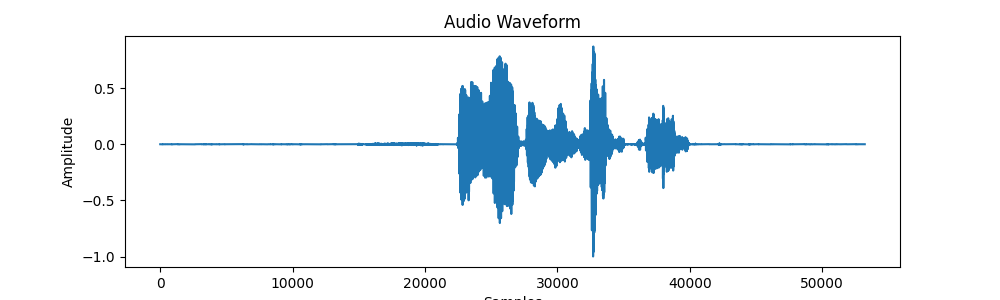
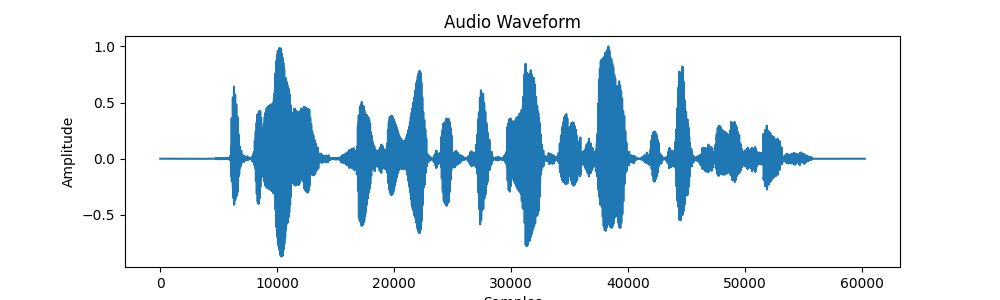
Deepfake Audio Detection

diff --git a/app.py b/app.py
@@ -1,104 +1,149 @@
 import os
 os.environ["NUMBA_DISABLE_JIT"] = "1"
+
 import matplotlib
-matplotlib.use('Agg')
+matplotlib.use("Agg")
 import matplotlib.pyplot as plt
+
 from flask import Flask, render_template, request, url_for
 from werkzeug.utils import secure_filename
-import os
+
+import numpy as np
 import librosa
 import soundfile as sf
-import numpy as np
-import numba
-print("LIBROSA VERSION:", librosa.__version__)
-print("NUMBA VERSION:", numba.__version__)
-from tensorflow.keras.models import load_model
+import tensorflow as tf
+from keras.models import load_model
 
+# -----------------------------
+# Flask App Configuration
+# -----------------------------
 app = Flask(__name__)
-app.config['MAX_CONTENT_LENGTH'] = 50 * 1024 * 1024
-# Ensure upload folder exists
-os.makedirs("static/uploads", exist_ok=True)
 
-# Load trained model
-model = load_model("Models/deepfake_cnn.h5")
+app.config["MAX_CONTENT_LENGTH"] = 50 * 1024 * 1024  # 50 MB upload limit
+
+UPLOAD_FOLDER = "static/uploads"
+os.makedirs(UPLOAD_FOLDER, exist_ok=True)
+
+# -----------------------------
+# Load Trained Model
+# -----------------------------
+MODEL_PATH = "Models/deepfake_cnn.keras"
+
+model = load_model(MODEL_PATH, compile=False)
+
+print("Model Loaded Successfully!")
+print("Output Shape:", model.output_shape)
 
 
[email redacted]('/')
+# -----------------------------
+# Home Page
+# -----------------------------
[email redacted]("/")
 def home():
-    return render_template('index.html')
+    return render_template("index.html")
 
 
[email redacted]('/predict', methods=['POST'])
+# -----------------------------
+# Prediction Route
+# -----------------------------
[email redacted]("/predict", methods=["POST"])
 def predict():
 
-    file = request.files['audio']
+    if "audio" not in request.files:
+        return "No audio file uploaded."
 
-    # Save file inside static folder
+    file = request.files["audio"]
+
+    if file.filename == "":
+        return "No file selected."
+
+    # Save uploaded file
     filename = secure_filename(file.filename)
-
-    filepath = os.path.join("static/uploads", filename)
-
+    filepath = os.path.join(UPLOAD_FOLDER, filename)
     file.save(filepath)
 
-    # Feature Extraction
-    audio, sr = sf.read(filepath)
-
-    audio, sr = sf.read(filepath)
-
-    if len(audio.shape) > 1:
-        audio = np.mean(audio, axis=1)
-
-    audio = audio.astype(np.float32)
-
-    if len(audio) > sr * 5:
-        audio = audio[:sr * 5]
-
-    print("Audio loaded")
-    print("Audio shape:", audio.shape)
-    print("Sample rate:", sr)
-    plt.figure(figsize=(10,3))
-    plt.plot(audio)
-    plt.title("Audio Waveform")
-    plt.xlabel("Samples")
-    plt.ylabel("Amplitude")
-
-    waveform_path = os.path.join("static", "waveform.png")
-
-    plt.savefig(waveform_path)
-    plt.close()
-
     try:
-        mfcc = librosa.feature.mfcc(y=audio, sr=sr, n_mfcc=40)
-        print("MFCC extracted")
+        # -----------------------------
+        # Read Audio
+        # -----------------------------
+        audio, sr = sf.read(filepath)
+
+        # Convert stereo to mono
+        if len(audio.shape) > 1:
+            audio = np.mean(audio, axis=1)
+
+        audio = audio.astype(np.float32)
+
+        # Keep only first 5 seconds
+        max_length = sr * 5
+        if len(audio) > max_length:
+            audio = audio[:max_length]
+
+        # -----------------------------
+        # Save Waveform
+        # -----------------------------
+        plt.figure(figsize=(10, 3))
+        plt.plot(audio)
+        plt.title("Audio Waveform")
+        plt.xlabel("Samples")
+        plt.ylabel("Amplitude")
+
+        waveform_path = os.path.join("static", "waveform.png")
+        plt.savefig(waveform_path)
+        plt.close()
+
+        # -----------------------------
+        # Feature Extraction
+        # -----------------------------
+        mfcc = librosa.feature.mfcc(
+            y=audio,
+            sr=sr,
+            n_mfcc=40
+        )
+
+        mfcc = np.mean(mfcc.T, axis=0)
+        mfcc = mfcc.reshape(1, 40, 1)
+
+        # -----------------------------
+        # Prediction
+        # -----------------------------
+        prediction = model.predict(mfcc, verbose=0)
+
+        # For Softmax Output (2 classes)
+        label = np.argmax(prediction)
+        confidence = round(float(np.max(prediction)) * 100, 2)
+
+        if label == 0:
+            result = "REAL AUDIO"
+        else:
+            result = "FAKE AUDIO"
+
+        # -----------------------------
+        # Display
+        # -----------------------------
+        audio_file = url_for(
+            "static",
+            filename="uploads/" + filename
+        )
+
+        return render_template(
+            "index.html",
+            prediction=result,
+            confidence=confidence,
+            audio_file=audio_file,
+            waveform_image="waveform.png",
+        )
+
     except Exception as e:
-        print("MFCC ERROR:", str(e))
-        raise
-    mfcc = np.mean(mfcc.T, axis=0)
-    mfcc = mfcc.reshape(1, 40, 1)
-
-    # Prediction
-    prediction = model.predict(mfcc)
-    print("Predicting...")
-
-    label = np.argmax(prediction)
-    confidence = round(float(np.max(prediction)) * 100, 2)
-
-    result = "REAL AUDIO" if label == 0 else "FAKE AUDIO"
-
-    # Create URL for audio playback
-    audio_file = url_for('static', filename='uploads/' + filename)
-
-    return render_template(
-        "index.html",
-        prediction=result,
-        confidence=confidence,
-        audio_file=audio_file,
-        waveform_image="waveform.png"
-    )
+        return f"Error: {str(e)}"
 
 
+# -----------------------------
+# Run App
+# -----------------------------
 if __name__ == "__main__":
     app.run(
         host="0.0.0.0",
-        port=int(os.environ.get("PORT", 5000))
+        port=5000,
+        debug=True
     )